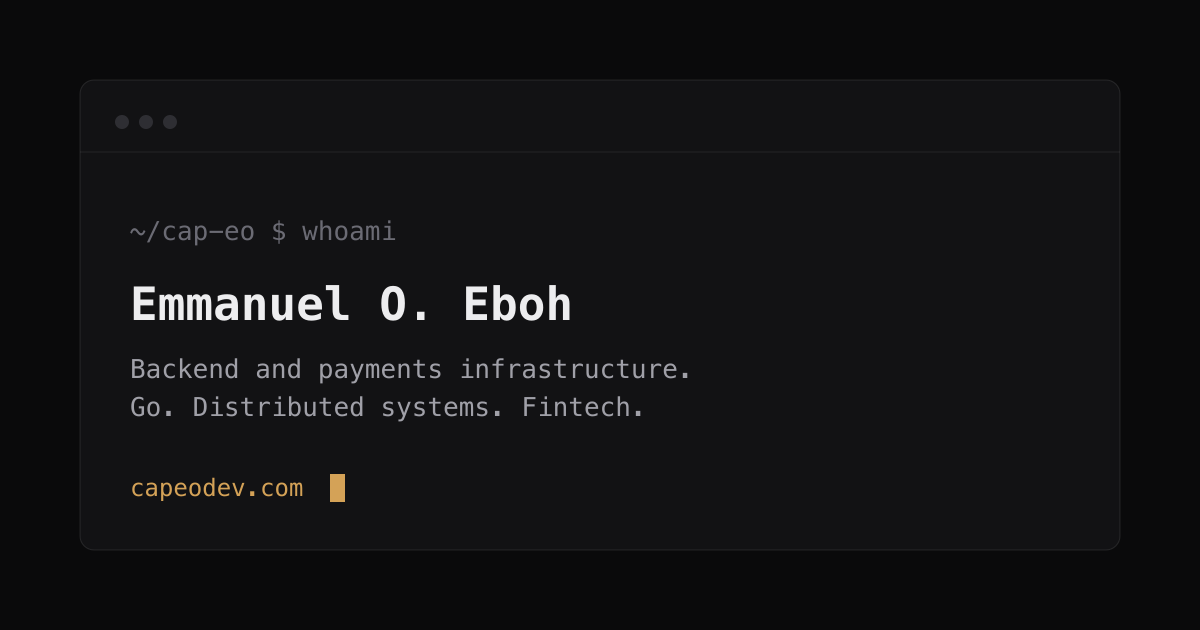
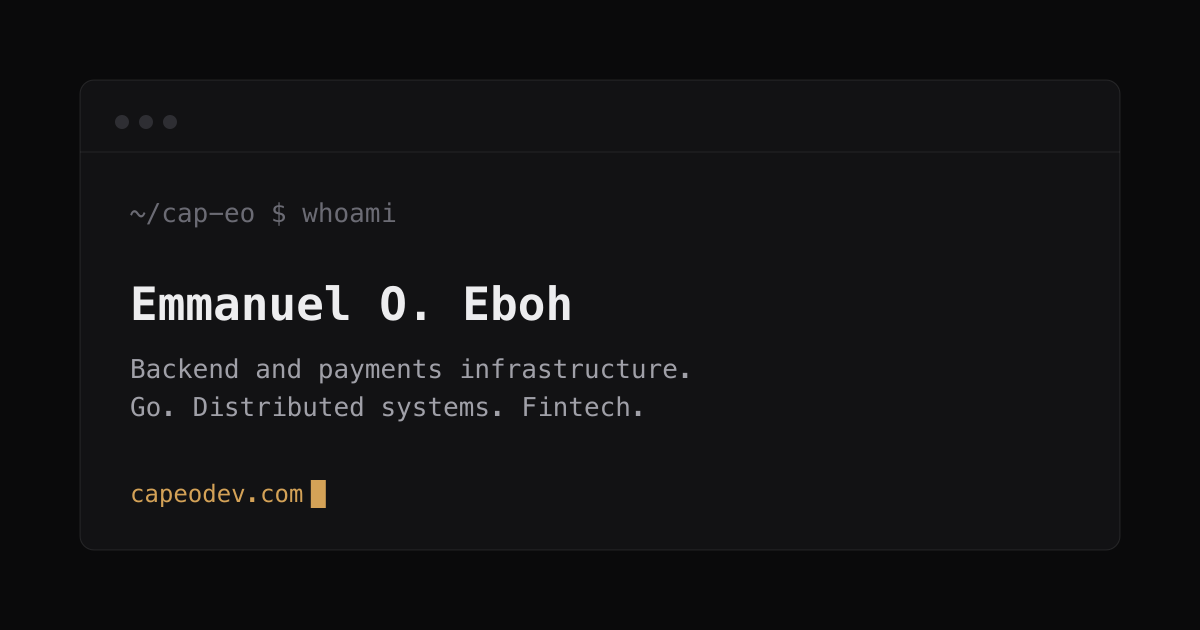
feat(og): add a dedicated share card for /lead-rescue
/lead-rescue inherited the personal-brand card, which reads "Emmanuel O.
Eboh, backend and payments infrastructure". That is the wrong message for
a solicitor opening the link from a cold email, so the page now has its
own card stating what the service does.

Share cards move out of generate-placeholders.mjs into their own script,
since they are finished assets rather than tiles to swap. Both cards are
1200x630, the ratio Facebook, LinkedIn, X and Slack crop to, with copy
inside a 130px margin and a 52px headline so it stays readable at feed
thumbnail size. Both stay under 50KB.

Also adds og:image:alt, twitter:image:alt and og:image:type, which the
layout was not emitting. The alt tags are what screen readers announce in
place of the card.

Changed region(s): [[0.1233, 0.3317, 0.3392, 0.3921], [0.0925, 0.754, 0.3083, 0.8143]]

diff --git a/README.md b/README.md
@@ -83,11 +83,24 @@ All placeholders are dark tiles marked `PLACEHOLDER`. Replace the file at the sa
 | agent-skills screenshot | `public/images/work/agent-skills-hero.png` | 1600x900 |
 | Capstone screenshot | `public/images/work/bootcamp-capstone-hero.png` | 1600x900 |
 | Hero demo GIF slot (unused on v1, terminal component renders instead) | `public/images/hero-demo.png` | 1200x750 |
-| Default OG image | `public/og-default.png` | 1200x630 |
 
 Placeholder links marked `TODO` in `src/config/site.ts`: cal.com booking URL, Substack, LinkedIn, X, TikTok, YouTube handles, and the production domain (also update `site` in `astro.config.mjs` and `public/robots.txt`).
 
 Regenerate placeholder tiles any time: `node scripts/generate-placeholders.mjs`.
+
+## Open Graph share cards
+
+Share cards are finished assets, not placeholders. Edit the copy in
+`scripts/generate-og-images.mjs` and re-run `node scripts/generate-og-images.mjs`.
+
+| Card | Path | Used by |
+| --- | --- | --- |
+| Default | `public/og-default.png` | every page that does not set `ogImage` |
+| Lead Rescue | `public/og-lead-rescue.png` | `/lead-rescue` |
+
+All cards are 1200x630 (1.91:1), the ratio Facebook, LinkedIn, X and Slack crop to. A page
+overrides the default by passing `ogImage` and `ogImageAlt` to `BaseLayout`. Always pass
+`ogImageAlt`: it becomes `og:image:alt`, which screen readers announce in place of the image.
 
 ## Analytics
 
